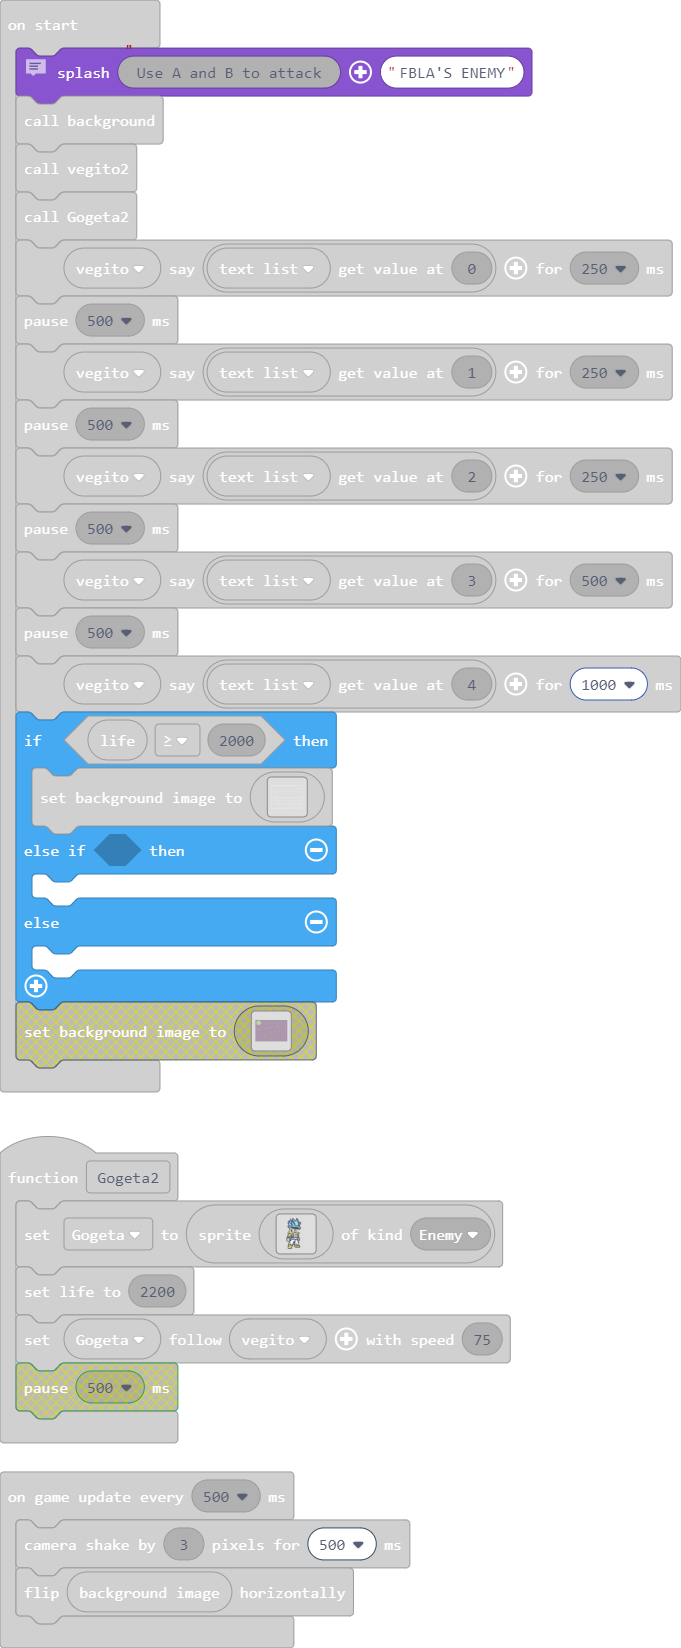
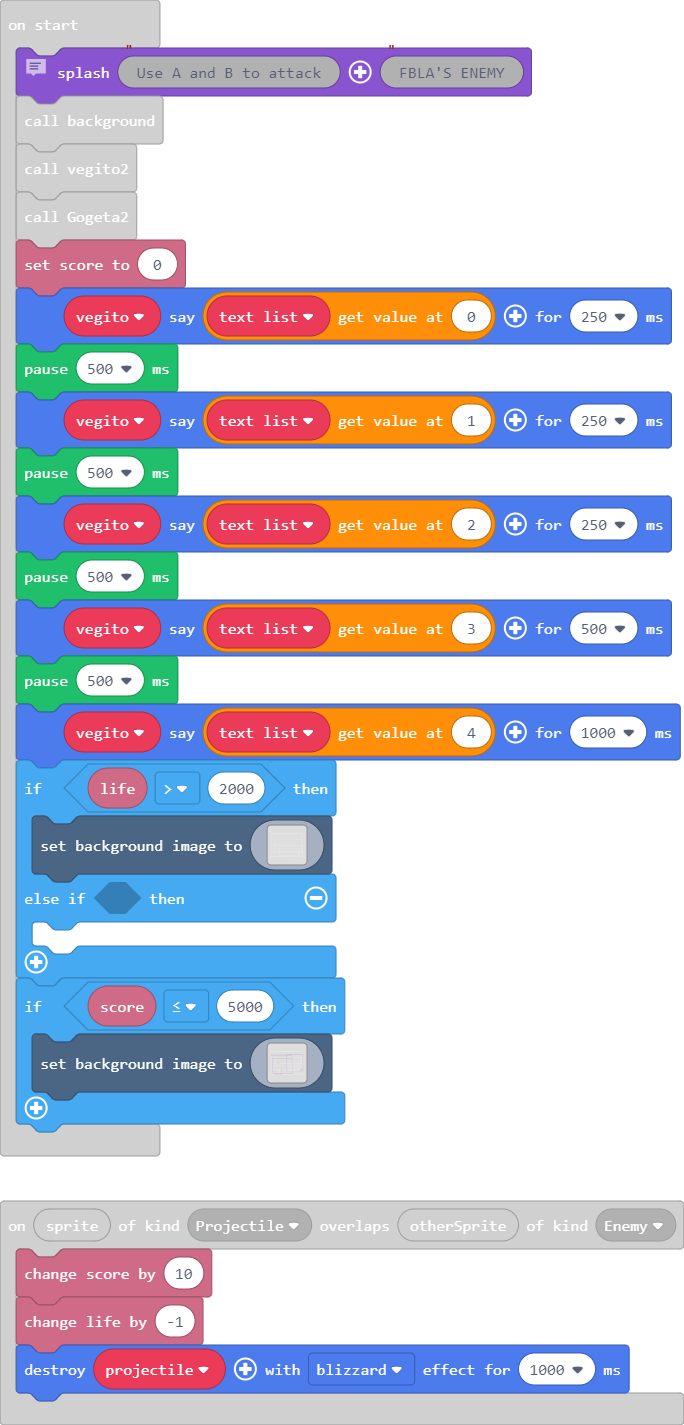
Update main.blocks, main.ts

diff --git a/main.ts b/main.ts
@@ -326,6 +326,7 @@ function spirit_bomb () {
     projectile3.follow(Gogeta, 100)
 }
 sprites.onOverlap(SpriteKind.Projectile, SpriteKind.Enemy, function (sprite, otherSprite) {
+    info.changeScoreBy(10)
     info.changeLifeBy(-1)
     projectile.destroy(effects.blizzard, 1000)
 })
@@ -345,6 +346,7 @@ game.splash("Use A and B to attack", "FBLA'S ENEMY")
 background()
 vegito2()
 Gogeta2()
+info.setScore(0)
 vegito.say(text_list[0], 250)
 pause(500)
 vegito.say(text_list[1], 250)
@@ -354,7 +356,7 @@ pause(500)
 vegito.say(text_list[3], 500)
 pause(500)
 vegito.say(text_list[4], 1000)
-if (info.life() >= 2000) {
+if (info.life() > 2000) {
     scene.setBackgroundImage(img`
 1 1 1 1 1 1 1 1 1 1 1 1 1 1 1 1 1 1 1 1 1 1 1 1 1 1 1 1 1 1 1 1 1 1 1 1 1 1 1 1 1 1 1 1 1 1 1 1 1 1 1 1 1 1 1 1 1 1 1 1 1 1 1 1 1 1 1 1 1 1 1 1 1 1 1 1 1 1 1 1 1 1 1 1 1 1 1 1 1 1 1 1 1 1 1 1 1 1 1 1 1 1 1 1 1 1 1 1 1 1 1 1 1 1 1 1 1 1 1 1 1 1 1 1 1 1 1 1 1 1 1 1 1 1 1 1 1 1 1 1 1 1 1 1 1 1 1 1 1 1 1 1 1 1 1 1 . . . . 
 1 . . . . . . . . . . . . . . . . . . . . . . . . . . . . . . . . . . . . . . . . . . . . . . . . . . . . . . . . . . . . . . . . . . . . . . . . . . . . . . . . . . . . . . . . . . . . . . . . . . . . . . . . . . . . . . . . . . . . . . . . . . . . . . . . . . . . . . . . . . . . . . . . . . . . . . . . . . 1 . . . . 
@@ -479,8 +481,130 @@ if (info.life() >= 2000) {
 `)
 } else if (false) {
 	
-} else {
-	
+}
+if (info.score() <= 5000) {
+    scene.setBackgroundImage(img`
+1 1 1 1 1 1 1 1 1 1 1 1 1 1 1 1 1 1 1 1 1 1 1 1 1 1 1 1 1 1 1 1 1 1 1 1 1 1 1 1 1 1 1 1 1 1 1 1 1 1 1 1 1 1 1 1 1 1 1 1 1 1 1 1 1 1 1 1 1 1 1 1 1 1 1 1 1 1 1 1 1 1 1 1 1 1 1 1 1 1 1 1 1 1 1 1 1 1 1 1 1 1 1 1 1 1 1 1 1 1 1 1 1 1 1 1 1 1 1 1 1 1 1 1 1 1 1 1 1 1 1 1 1 1 1 1 1 1 1 1 1 1 1 1 1 1 1 1 1 1 1 1 1 1 1 1 . . . . 
+1 . . . . . . . . . . . . . . . . . . . . . . . . . . . . . . . . . . . . . . . . . . . . . . . . . . . . . . . . . . . . . . . . . . . . . . . . . . . . . . . . . . . . . . . . . . . . . . . . . . . . . . . . . . . . . . . . . . . . . . . . . . . . . . . . . . . . . . . . . . . . . . . . . . . . . . . . . . 1 . . . . 
+1 1 1 1 1 1 1 1 1 1 1 1 1 1 1 1 1 1 1 1 1 1 1 1 1 1 1 1 1 1 1 1 1 1 1 1 1 1 1 1 1 1 1 1 1 1 1 1 1 1 1 1 1 1 1 1 1 1 1 1 1 1 1 1 1 1 1 1 1 1 1 1 1 1 1 1 1 1 1 1 1 1 1 1 1 1 1 1 1 1 1 1 1 1 1 1 1 1 1 1 1 1 1 1 1 1 1 1 1 1 1 1 1 1 1 . . . . . . . . . . . . . . . . . . . . . . . . . . . . . . . . . . . . . . . . 1 . . . . 
+1 1 . . . . . . . . . . . . . . . . . . . . . . 1 1 1 1 1 1 1 1 1 1 1 1 1 1 1 1 1 1 1 1 1 1 1 1 1 1 1 1 1 1 1 1 1 1 1 1 1 1 1 1 1 1 1 1 1 1 1 1 1 1 1 1 1 1 1 1 1 1 1 1 1 1 1 1 1 1 1 1 1 1 1 1 1 1 1 1 1 1 1 1 1 1 1 1 1 1 1 1 1 1 1 1 1 1 1 1 1 1 1 1 1 1 1 1 1 1 1 1 1 1 1 1 1 1 1 1 1 1 1 1 1 1 1 1 1 1 1 1 1 . . 1 . . . . 
+1 1 . . . . . . . . . . . . . . . . . . . . . . 1 . . . . . . . . . . . . . . . . . . . . . . . . . . . . . . . . . . . . . . . . . . . . . . . . . . . . . . . . . . . . . . . . . . . . . . . . . . . . . . . . . . . . . . . . . 1 . . . . . . . . . . . . . . . . . . . . . . . . . . . . . . . . . . . . . 1 . . 1 . . . . 
+1 1 . . . . . . . . . . . . . . . . . . . . . . 1 . . . . . . . . . . . . . . . . . . . . . . . . . . . . . . . . . . . . . . . . . . . . . . . . . . . . . . . . . . . . . . . . . . . . . . . . . . . . . . . . . . . . . . . . . 1 . . . . . . . . . . . . . . . . . . . . . . . . . . . . . . . . . . . . . 1 . . 1 . . . . 
+1 1 . . . . . . . . . . . . . . . . . . . . . . 1 . . . . . . . . . . . . . . . . . . . . . . . . . . . . . . . . . . . . . . . . . . . . . . . . . . . . . . . . . . . . . . . . . . . . . . . . . . . . . . . . . . . . . . . . . 1 . . . . . . . . . . . . . . . . . . . . . . . . . . . . . . . . . . . . . 1 . . 1 . . . . 
+1 1 . . . . . . . . . . . . . . . . . . . . . . 1 . . . . . . . . . . . . . . . . . . . . . . . . . . . . . . . . . . . . . . . . . . . . . . . . . . . . . . . . . . . . . . . . . . . . . . . . . . . . . . . . . . . . . . . . . 1 . . . . . . . . . . . . . . . . . . . . . . . . . . . . . . . . . . . . . 1 . . 1 . . . . 
+1 1 . . . . . . . . . . . . . . . . . . . . . . 1 . . . . . . . . . . . . . . . . . . . . . . . . . . . . . . . . . . . . . . . . . . . . . . . . . . . . . . . . . . . . . . . . . . . . . . . . . . . . . . . . . . . . . . . . . 1 . . . . . . . . . . . . . . . . . . . . . . . . . . . . . . . . . . . . . 1 . . 1 . . . . 
+1 1 . . . . . . . . . . . . . . . . . . . . . . 1 . . . . . . . . . . . . . . . . . . . . . . . . . . . . . . . . . . . . . . . . . . . . . . . . . . . . . . . . . . . . . . . . . . . . . . . . . . . . . . . . . . . . . . . . . 1 . . . . . . . . . . . . . . . . . . . . . . . . . . . . . . . . . . . . . 1 . . 1 . . . . 
+1 1 . . . . . . . . . . . . . . . . . . . . . . 1 . . . . . . . . . . . . . . . . . . . . . . . . . . . . . . . . . . . . . . . . . . . . . . . . . . . . . . . . . . . . . . . . . . . . . . . . . . . . . . . . . . . . . . . . . 1 . . . . . . . . . . . . . . . . . . . . . . . . . . . . . . . . . . . . . 1 . . 1 . . . . 
+1 1 . . . . . . . . . . . . . . . . . . . . . . 1 . . . . . . . . . . . . . . . . . . . . . . . . . . . . . . . . . . . . . . . . . . . . . . . . . . . . . . . . . . . . . . . . . . . . . . . . . . . . . . . . . . . . . . . . . 1 . . . . . . . . . . . . . . . . . . . . . . . . . . . . . . . . . . . . . 1 . . 1 . . . . 
+1 1 . . . . . . . . . . . . . . . . . . . . . . 1 . . . . . . . . . . . . . . . . . . . . . . . . . . . . . . . . . . . . . . . . . . . . . . . . . . . . . . . . . . . . . . . . . . . . . . . . . . . . . . . . . . . . . . . . . 1 . . . . . . . . . . . . . . . . . . . . . . . . . . . . . . . . . . . . . 1 . . 1 . . . . 
+1 1 . . . . . . . . . . . . . . . . . . . . . . 1 . . . . . . . . . . . . . . . . . . . . . . . . . . . . . . . . . . . . . . . . . . . . . . . . . . . . . . . . . . . . . . . . . . . . . . . . . . . . . . . . . . . . . . . . . 1 . . . . . . . . . . . . . . . . . . . . . . . . . . . . . . . . . . . . . 1 . . 1 . . . . 
+1 1 . . . . . . . . . . . . . . . . . . . . . . 1 . . . . . . . . . . . . . . . . . . . . . . . . . . . . . . . . . . . . . . . . . . . . . . . . . . . . . . . . . . . . . . . . . . . . . . . . . . . . . . . . . . . . . . . . . 1 . . . . . . . . . . . . . . . . . . . . . . . . . . . . . . . . . . . . . 1 . . 1 . . . . 
+1 a a a a a a a a a a a a a a a a a a a a a a a a a a a a a a a a a a a a a a a a a a a a a a a a a a a a a a a a a a a a a a a a a a a a a a a a a a a a a a a a a a a a a a a a a a a a a a a a a a a a a . . . . . . . . . . . . 1 . . . . . . . . . . . . . . . . . . . . . . . . . . . . . . . . . . . . . 1 . . 1 . . . . 
+1 a . . . . . . . . . . . . . . . . . . . . . . 1 . . . . . . . . . . . . . . . . . . . . . . . . . . . . . . . . . . . . . . . . . . . . . . . . . . . . . . . . . . . . . . . . . . . . . . . . . . . . a . . . . . . . . . . . . 1 . . . . . . . . . . . . . . . . . . . . . . . . . . . . . . . . . . . . . 1 . . 1 . . . . 
+1 a . . . . . . . . . . . . . . . . . . . . . . 1 . . . . . . . . . . . . . . . . . . . . . . . . . . . . . . . . . . . . . . . . . . . . . . . . . . . a a a a a a a a a a a a a a a a a a a a a a a a a a a a a a a a a a a a a a a a a a a a a a a a a a a a a a a a a a a a a a a a a a a a a a a a a a a a a a a a a a a a 
+1 a . . . . . . . . . . . . . . . . . . . . . . 1 . . . . . . . . . . . . . . . . . . . . . . . . . . . . . . . . . . . . . . . . . . . . . . . . . . . a . . . . . . . . . . . . . . . . . . . . . . . . a . . . . . . . . . . . . 1 . . . . . . . . . . . . . . . . . . . . . . . . . . . . . . . . . . . . . 1 . . 1 . . . a 
+1 a . . . . . . . . . . . . . . . . . . . . . . 1 . . . . . . . . . . . . . . . . . . . . . . . . . . . . . . . . . . . . . . . . . . . . . . . . . . . a . . . . . . . . . . . . . . . . . . . . . . . . a . . . . . . . . . . . . 1 . . . . . . . . . . . . . . . . . . . . . . . . . . . . . . . . . . . . . 1 . . 1 . . . a 
+1 a . . . . . . . . . . . . . . . . . . . . . . 1 . . . . . . . . . . . . . . . . . . . . . . . . . . . . . . . . . . . . . . . . . . . . . . . . . . . a . . . . . . . . . . . . . . . . . . . . . . . . a . . . . . . . . . . . . 1 . . . . . . . . . . . . . . . . . . . . . . . . . . . . . . . . . . . . . 1 . . 1 . . . a 
+1 a . . . . . . . . . . . . . . . . . . . . . . 1 . . . . . . . . . . . . . . . . . . . . . . . . . . . . . . . . . . . . . . . . . . . . . . . . . . . a . . . . . . . . . . . . . . . . . . . . . . . . a . . . . . . . . . . . . 1 . . . . . . . . . . . . . . . . . . . . . . . . . . . . . . . . . . . . . 1 . . 1 . . . a 
+1 a a a a a a a a a a a a a a a a a a a a a a a a a a a a a a a a a a a a a a a a a a a a a a a a a a a a a a a a a a a a a a a a a a a a a a a a a a a a a a a a a a a a a a a a a a a a a a a a a a a a a . . . . . . . . . . . . 1 . . . . . . . . . . . . . . . . . . . . . . . . . . . . . . . . . . . . . 1 . . 1 . . . a 
+1 1 . . . . . . . . . . . . . . . . . . . . . . 1 . . . . . . . . . . . . . . . . . . . . . . . . . . . . . . . . . . . . . . . . . . . . . . . . . . . a . . . . . . . . . . . . . . . . . . . . . . . . . . . . . . . . . . . . . 1 . . . . . . . . . . . . . . . . . . . . . . . . . . . . . . . . . . . . . 1 . . 1 . . . a 
+1 1 . . . . . . . . . . . . . . . . . . . . . . 1 . . . . . . . . . . . . . . . . . . . . . . . . . . . . . . . . . . . . . . . . . . . . . . . . . . . a . . . . . . . . . . . . . . . . . . . . . . . . . . . . . . . . . . . . . 1 . . . . . . . . . . . . . . . . . . . . . . . . . . . . . . . . . . . . . 1 . . 1 . . . a 
+1 1 . . . . . . . . . . . . . . . . . . . . . . 1 . . . . . . . . . . . . . . . . . . . . . . . . . . . . . . . . . . . . . . . . . . . . . . . . . . . a . . . . . . . . . . . . . . . . . . . . . . . . . . . . . . . . . . . . . 1 . . . . . . . . . . . . . . . . . . . . . . . . . . . . . . . . . . . . . 1 . . 1 . . . a 
+1 1 . . . . . . . . . . . . . . . . . . . . . . 1 . . . . . . . . . . . . . . . . . . . . . . . . . . . . . . . . . . . . . . . . . . . . . . . . . . . a . . . . . . . . . . . . . . . . . . . . . . . . . . . . . . . . . . . . . 1 . . . . . . . . . . . . . . . . . . . . . . . . . . . . . . . . . . . . . 1 . . 1 . . . a 
+1 1 . . . . . . . . . . . . . . . . . . . . . . 1 . . . . . . . . . . . . . . . . . . . . . . . . . . . . . . . . . . . . . . . . . . . . . . . . . . . a . . . . . . . . . . . . . . . . . . . . . . . . . . . . . . . . . . . . . 1 . . . . . . . . . . . . . . . . . . . . . . . . . . . . . . . . . . . . . 1 . . 1 . . . a 
+1 1 . . . . . . . . . . . . . . . . . . . . . . 1 . . . . . . . . . . . . . . . . . . . . . . . . . . . . . . . . . . . . . . . . . . . . . . . . . . . a . . . . . . . . . . . . . . . . . . . . . . . . . . . . . . . . . . . . . 1 . . . . . . . . . . . . . . . . . . . . . . . . . . . . . . . . . . . . . 1 . . 1 . . . a 
+1 1 . . . . . . . . . . . . . . . . . . . . . . 1 . . . . . . . . . . . . . . . . . . . . . . . . . . . . . . . . . . . . . . . . . . . . . . . . . . . a . . . . . . . . . . . . . . . . . . . . . . . . . . . . . . . . . . . . . 1 . . . . . . . . . . . . . . . . . . . . . . . . . . . . . . . . . . . . . 1 . . 1 . . . a 
+1 1 . . . . . . . . . . . . . . . 1 1 1 1 1 1 1 1 1 1 1 1 1 1 1 1 1 1 1 1 1 1 1 1 1 1 1 1 1 1 1 1 1 1 1 1 1 1 1 1 1 1 1 1 1 1 1 1 1 1 1 1 1 1 1 1 1 1 1 a 1 1 1 1 1 1 1 1 1 1 1 1 1 1 1 1 1 1 1 1 1 1 1 1 1 1 1 1 1 1 1 1 1 1 1 1 1 1 1 1 1 1 1 1 1 1 1 1 1 1 1 1 1 1 1 1 1 1 1 1 1 1 1 1 1 1 1 1 1 1 1 1 1 1 1 1 . . 1 . . . a 
+1 1 . . . . . . . . . . . . . . . 1 . . . . . . 1 . . . . . . . . . . . . . . . . . . . . . . . . . . . . . . . . . . . . . . . . . . . . . . . . . . . a . . . . . . . . . . . . . . . . . . . . . . . . . . . . . . . . . . . . . 1 . . . . . . . . . . . . . . . . . . . . . . . . . . . . . . . . . . . . . 1 . . 1 . . . a 
+1 1 . . . . . . . . . . . . . . . 1 . . . . . . 1 . . . . . . . . . . . . . . . . . . . . . . . . . . . . . . . . . . . . . . . . . . . . . . . . . . . a . . . . . . . . . . . . . . . . . . . . . . . . . . . . . . . . . . . . . 1 . . . . . . . . . . . . . . . . . . . . . . . . . . . . . . . . . . . . . 1 . . 1 . . . a 
+1 1 . . . . . . . . . . . . . . . 1 . . . . . . 1 . . . . . . . . . . . . . . . . . . . . . . . . . . . . . . . . . . . . . . . . . . . . . . . . . . . a . . . . . . . . . . . . . . . . . . . . . . . . . . . . . . . . . . . . . 1 . . . . . . . . . . . . . . . . . . . . . . . . . . . . . . . . . . . . . 1 . . 1 . . . a 
+1 1 . . . . . . . . . . . . . . . 1 . . . . . . 1 . . . . . . . . . . . . . . . . . . . . . . . . . . . . . . . . . . . . . . . . . . . . . . . . . . . a . . . . . . . . . . . . . . . . . . . . . . . . . . . . . . . . . . . . . 1 . . . . . . . . . . . . . . . . . . . . . . . . . . . . . . . . . . . . . 1 . . 1 . . . a 
+1 1 . . . . . . . . . . . . . . . 1 . . . . . . 1 . . . . . . . . . . . . . . . . . . . . . . . . . . . . . . . . . . . . . . . . . . . . . . . . . . . a . . . . . . . . . . . . . . . . . . . . . . . . . . . . . . . . . . . . . 1 . . . . . . . . . . . . . . . . . . . . . . . . . . . . . . . . . . . . . 1 . . 1 . . . a 
+1 1 . . . . . . . . . . . . . . . 1 . . . . . . 1 . . . . . . . . . . . . . . . . . . . . . . . . . . . . . . . . . . . . . . . . . . . . . . . . . . . a . . . . . . . . . . . . . . . . . . . . . . . . . . . . . . . . . . . . . 1 . . . . . . . . . . . . . . . . . . . . . . . . . . . . . . . . . . . . . 1 . . 1 . . . a 
+1 1 . . . . . . . . . . . . . . . 1 . . . . . . 1 . . . . . . . . . . . . . . . . . . . . . . . . . . . . . . . . . . . . . . . . . . . . . . . . . . . a . . . . . . . . . . . . . . . . . . . . . . . . . . . . . . . . . . . . . 1 . . . . . . . . . . . . . . . . . . . . . . . . . . . . . . . . . . . . . 1 . . 1 . . . a 
+1 1 . . . . a a a a a a a a a a a a a a a a a a a a a a a a a a a a a a a a a a a a a a a a a a a a a a a a a a a a a a a a a a a a a a a a a a a a a a a a a a a a a a a a a a a a a a a a a a a a a a a a a a a a a a a a . . . . 1 . . . . . . . . . . . . . . . . . . . . . . . . . . . . . . . . . . . . . 1 . . 1 . . . a 
+1 1 . . . . a . . . . . . . . . . 1 . . . . . . 1 . . . . . . . . . . . . . . . . . . . . . . . . . . . . . . . . . . . . . . . . . . . . . . . . . . . a . . . . . . . . . . . . . . . . . . . . . . . . . . . . . . . . a . . . . 1 . . . . . . . . . . . . . . . . . . . . . . . . . . . . . . . . . . . . . 1 . . 1 . . . a 
+1 1 . . . . a . . . . . . . . . . 1 . . . . . . 1 . . . . . . . . . . . . . . . . . . . . . . . . . . . . . . . . . . . . . . . . . . . . . . . . . . . a . . . . . . . . . . . . . . . . . . . . . . . . . . . . . . . . a . . . . 1 . . . . . . . . . . . . . . . . . . . . . . . . . . . . . . . . . . . . . 1 . . 1 . . . a 
+1 1 . . . . a . . . . . . . . . . 1 . . . . . . 1 . . . . . . . . . . . . . . . . . . . . . . . . . . . . . . . . . . . . . . . . . . . . . . . . . . . a . . . . . . . . . . . . . . . . . . . . . . . . . . . . . . . . a . . . . 1 . . . . . . . . . . . . . . . . . . . . . . . . . . . . . . . . . . . . . 1 . . 1 . . . a 
+1 1 . . . . a . . . . . . . . . . 1 . . . . . . 1 . . . . . . . . . . . . . . . . . . . . . . . . . . . . . . . . . . . . . . . . . . . . . . . . . . . a . . . . . . . . . . . . . . . . . . . . . . . . . . . . . . . . a . . . . 1 . . . . . . . . . . . . . . . . . . . . . . . . . . . . . . . . . . . . . 1 . . 1 . . . a 
+1 1 . . . . a . . . . . . . . . . 1 . . . . . . 1 . . . . . . . . . . . . . . . . . . . . . . . . . . . . . . . . . . . . . . . . . . . . . . . . . . . a . . . . . . . . . . . . . . . . . . . . . . . . . . . . . . . . a . . . . 1 . . . . . . . . . . . . . . . . . . . . . . . . . . . . . . . . . . . . . 1 . . 1 . . . a 
+1 1 . . . . a . . . . . . . . . . 1 . . . . . . 1 . . . . . . . . . . . . . . . . . . . . . . . . . . . . . . . . . . . . . . . . . . . . . . . . . . . a . . . . . . . . . . . . . . . . . . . . . . . . . . . . . . . . a . . . . 1 . . . . . . . . . . . . . . . . . . . . . . . . . . . . . . . . . . . . . 1 . . 1 . . . a 
+1 1 . . . . a . . . . . . . . . . 1 . . . . . . 1 . . . . . . . . . . . . . . . . . . . . . . . . . . . . . . . . . . . . . . . . . . . . . . . . . . . a . . . . . . . . . . . . . . . . . . . . . . . . . . . . . . . . a . . . . 1 . . . . . . . . . . . . . . . . . . . . . . . . . . . . . . . . . . . . . 1 . . 1 . . . a 
+1 1 . . . . a . . . . . . . . . . 1 . . . . . . 1 . . . . . . . . . . . . . . . . . . . . . . . . . . . . . . . . . . . . . . . . . . . . . . . . . . . a . . . . . . . . . . . . . . . . . . . . . . . . . . . . . . . . a . . . . 1 . . . . . . . . . . . . . . . . . . . . . . . . . . . . . . . . . . . . . 1 . . 1 . . . a 
+1 1 . . . . a . . . . . . . . . . 1 . . . . . . 1 . . . . . . . . . . . . . . . . . . . . . . . . . . . . . . . . . . . . . . . . . . . . . . . . . . . a . . . . . . . . . . . . . . . . . . . . . . . . . . . . . . . . a . . . . 1 . . . . . . . . . . . . . . . . . . . . . . . . . . . . . . . . . . . . . 1 . . 1 . . . a 
+1 1 . . . . a . . . . . . . . . . 1 . . . . . . 1 . . . . . . . . . . . . . . . . . . . . . . . . . . . . . . . . . . . . . . . . . . . . . . . . . . . a . . . . . . . . . . . . . . . . . . . . . . . . . . . . . . . . a . . . . 1 . . . . . . . . . . . . . . . . . . . . . . . . . . . . . . . . . . . . . 1 . . 1 . . . a 
+1 1 . . . . a . . . . . . . . . . 1 . . . . . . 1 . . . . . . . . . . . . . . . . . . . . . . . . . . . . . . . . . . . . . . . . . . . . . . . . . . . a . . . . . . . . . . . . . . . . . . . . . . . . . . . . . . . . a . . . . 1 . . . . . . . . . . . . . . . . . . . . . . . . . . . . . . . . . . . . . 1 . . 1 . . . a 
+1 1 . . . . a . . . . . . . . . . 1 . . . . . . 1 . . . . . . . . . . . . . . . . . . . . . . . . . . . . . . . . . . . . . . . . . . . . . . . . . . . a . . . . . . . . . . . . . . . . . . . . . . . . . . . . . . . . a . . . . 1 . . . . . . . . . . . . . . . . . . . . . . . . . . . . . . . . . . . . . 1 . . 1 . . . a 
+1 1 . . . . a . . . . . . . . . . 1 . . . . . . 1 . . . . . . . . . . . . . . . . . . . . . . . . . . . . . . . . . . . . . . . . . . . . . . . . . . . a . . . . . . . . . . . . . . . . . . . . . . . . . . . . . . . . a . . . . 1 . . . . . . . . . . . . . . . . . . . . . . . . . . . . . . . . . . . . . 1 . . 1 . . . a 
+1 1 . . . . a . . . . . . . . . . 1 . . . . . . 1 . . . . . . . . . . . . . . . . . . . . . . . . . . . . . . . . . . . . . . . . . . . . . . . . . . . a . . . . . . . . . . . . . . . . . . . . . . . . . . . . . . . . a . . . . 1 . . . . . . . . . . . . . . . . . . . . . . . . . . . . . . . . . . . . . 1 . . 1 . . . a 
+1 1 . . . . a . . . . . . . . . . 1 . . . . . . 1 . . . . . . . . . . . . . . . . . . . . . . . . . . . . . . . . . . . . . . . . . . . . . . . . . . . a . . . . . . . . . . . . . . . . . . . . . . . . . . . . . . . . a . . . . 1 . . . . . . . . . . . . . . . . . . . . . . . . . . . . . . . . . . . . . 1 . . 1 . . . a 
+1 1 . . . . a . . . . . . . . . . 1 . . . . . . 1 . . . . . . . . . . . . . . . . . . . . . . . . . . . . . . . . . . . . . . . . . . . . . . . . . . . a . . . . . . . . . . . . . . . . . . . . . . . . . . . . . . . . a . . . . 1 . . . . . . . . . . . . . . . . . . . . . . . . . . . . . . . . . . . . . 1 . . 1 . . . a 
+1 1 . . . . a . . . . . . . . . . 1 . . . . . . 1 . . . . . . . . . . . . . . . . . . . . . . . . . . . . . . . . . . . . . . . . . . . . . . . . . . . a . . . . . . . . . . . . . . . . . . . . . . . . . . . . . . . . a . . . . 1 . . . . . . . . . . . . . . . . . . . . . . . . . . . . . . . . . . . . . 1 . . 1 . . . a 
+1 1 . . . . a . . . . . . . . . . 1 . . . . . . 1 . . . . . . . . . . . . . . . . . . . . . . . . . . . . . . . . . . . . . . . . . . . . . . . . . . . a . . . . . . . . . . . . . . . . . . . . . . . . . . . . . . . . a . . . . 1 . . . . . . . . . . . . . . . . . . . . . . . . . . . . . . . . . . . . . 1 . . 1 . . . a 
+1 1 . . . . a . . . . . . . . . . 1 . . . . . . 1 . . . . 1 1 1 1 1 . a a a a a . . . . . . . . . . . . . . . . . . . . . . . . . . . . . . . . . . . . a . . . . . . . . . . . . . . . . . . . . . . . . . . . . . . . . a . . . . 1 . . . . . . . . . . . . . . . . . . . . . . . . . . . . . . . . . . . . . 1 . . 1 . . . a 
+1 1 . . . . a . . . . . . . . . . 1 . . . . . . 1 . . . . 1 . . . 1 . a . . . a . . . . . . . . . . . . . . . . . . . . . . . . . . . . . . . . . . . . a . . . . . . . . . . . . . . . . . . . . . . . . . . . . . . . . a . . . . 1 . . . . . . . . . . . . . . . . . . . . . . . . . . . . . . . . . . . . . 1 . . 1 . . . a 
+1 1 . . . . a . . . . . . . . . . 1 . . . . . . 1 . . . . 1 . . . 1 . a . . . a . . . . . . . . . . . . . . . . . . . . . . . . . . . . . . . . . . . . a . . . . . . . . . . . . . . . . . . . . . . . . . . . . . . . . a . . . . 1 . . . . . . . . . . . . . . . . . . . . . . . . . . . . . . . . . . . . . 1 . . 1 . . . a 
+1 1 . . . . a . . . . . . . . . . 1 . . . . . . 1 . . . . 1 . . . 1 . a . . . a . . . . . . . . . . . . . . . . . . . . . . . . . . . . . . . . . . . . a . . . . . . . . . . . . . . . . . . . . . . . . . . . . . . . . a . . . . 1 . . . . . . . . . . . . . . . . . . . . . . . . . . . . . . . . . . . . . 1 . . 1 . . . a 
+1 1 . . . . a . . . . . . . . . . 1 . . . . . . 1 . . . . 1 . . . 1 . a . . . a . . 1 1 1 1 1 1 1 1 1 1 1 1 1 1 1 1 1 1 1 1 1 1 1 1 1 1 1 1 1 1 1 1 1 1 a 1 1 1 1 1 1 1 1 1 1 1 1 1 1 1 1 1 1 1 1 1 1 1 1 1 1 1 1 1 1 1 1 a 1 1 1 1 1 1 1 1 1 1 1 1 1 1 1 1 1 1 1 1 1 1 1 1 1 1 1 . . . . . . . . . . . . . . . 1 . . 1 . . . a 
+1 1 . . . . a . . . . . . . . . . 1 . . . . . . 1 . . . . 1 1 1 1 1 . a a a a a . . 1 . . . . . . . . . . . . . . . . . . . . . . . . . . . . . . . . . a . . . . . . . . . . . . . . . . . . . . . . . . . . . . . . . . a . . . . 1 . . . . . . . . . . . . . . . . . . . . . 1 . . . . . . . . . . . . . . . 1 . . 1 . . . a 
+1 1 1 1 1 1 a 1 1 1 1 1 1 1 1 1 1 1 1 1 1 1 1 1 1 1 1 1 1 1 1 1 1 1 1 1 1 1 1 1 1 1 1 1 1 1 1 1 1 1 1 1 1 1 1 1 1 1 1 1 1 1 1 1 1 1 1 1 1 1 1 1 1 1 1 1 a 1 1 1 1 1 1 1 1 1 1 1 1 1 1 1 1 1 1 1 1 1 1 1 1 1 1 1 1 1 1 1 1 a 1 1 1 1 1 1 1 1 1 1 1 1 1 1 1 1 1 1 1 1 1 1 1 1 1 1 1 1 1 1 1 1 1 1 1 1 1 1 1 1 1 1 1 1 1 1 1 1 1 a 
+1 1 . . . . a . . . . . . . . . . 1 . . . . . . 1 . . . . . . . . . . . . . . . . . 1 . . . . . . . . . . . . . . . . . . . . . . . . . . . . . . . . . a . . . . . . . . . . . . . . . . . . . . . . . . . . . . . . . . a . . . . 1 . . . . . . . . . . . . . . . . . . . . . 1 . . . . . . . . . . . . . . . 1 . . 1 . . . a 
+1 1 . . . . a . . . . . . . . . . 1 . . . . . . 1 . . . . . . . . . . . . . . . . . 1 . . . . . . . . . . . . . . . . . . . . . . . . . . . . . . . . . a . . . . . . . . . . . . . . . . . . . . . . . . . . . . . . . . a . . . . 1 . . . . . . . . . . . . . . . . . . . . . 1 . . . . . . . . . . . . . . . 1 . . 1 . . . a 
+1 1 . . . . a . . . . . . . . . . 1 . . . . . . 1 . . . . . . . . . . . . . . . . . 1 . . . . . . . . . . . . . . . . . . . . . . . . . . . . . . . . . a . . . . . . . . . . . . . . . . . . . . . . . . . . . . . . . . a . . . . 1 . . . . . . . . . . . . . . . . . . . . . 1 . . . . . . . . . . . . . . . 1 . . 1 . . . a 
+1 1 . . . . a . . . . . . . . . . 1 . . . . . . 1 . . . . . . . . . . . . . . . . . 1 . . . . . . . . . . . . . . . . . . . . . . . . . . . . . . . . . a . . . . . . . . . . . . . . . . . . . . . . . . . . . . . . . . a . . . . 1 . . . . . . . . . . . . . . . . . . . . . 1 . . . . . . . . . . . . . . . 1 . . 1 . . . a 
+1 1 . . . . a . . . . . . . . . . 1 . . . . . . 1 . . . . . . . . . . . . . . . . . 1 . . . . . . . . . . . . . . . . . . . . . . . . . . . . . . . . . a . . . . . . . . . . . . . . . . . . . . . . . . . . . . . . . . a . . . . 1 . . . . . . . . . . . . . . . . . . . . . 1 . . . . . . . . . . . . . . . 1 . . 1 . . . a 
+1 1 . . . . a . . . . . . . . . . 1 . . . . . . 1 . . . . . . . . . . . . . . . . . 1 . . . . . . . . . . . . . . . . . . . . . . . . . . . . . . . . . a . . . . . . . . . . . . . . . . . . . . . . . . . . . . . . . . a . . . . 1 . . . . . . . . . . . . . . . . . . . . . 1 . . . . . . . . . . . . . . . 1 . . 1 . . . a 
+1 1 . . . . a . . . . . . . . . . 1 . . . . . . 1 . . . . . . . . . . . . . . . . . 1 . . . . . . . . . . . . . . . . . . . . . . . . . . . . . . . . . a . . . . . . . . . . . . . . . . . . . . . . . . . . . . . . . . a . . . . 1 . . . . . . . . . . . . . . . . . . . . . 1 . . . . . . . . . . . . . . . 1 . . 1 . . . a 
+1 1 . . . . a . . . . . . . . . . 1 . . . . . . 1 . . . . . . . . . . . . . . . . . 1 . . . . . . . . . . . . . . . . . . . . . . . . . . . . . . . . . a . . . . . . . . . . . . . . . . . . . . . . . . . . . . . . . . a . . . . 1 . . . . . . . . . . . . . . . . . . . . . 1 . . . . . . . . . . . . . . . 1 . . 1 . . . a 
+1 1 . . . . a . . . . . . . . . . 1 . . . . . . 1 . . . . . . . . . . . . . . . . . 1 . . . . . . . . . . . . . . . . . . . . . . . . . . . . . . . . . a . . . . . . . . . . . . . . . . . . . . . . . . . . . . . . . . a . . . . 1 . . . . . . . . . . . . . . . . . . . . . 1 . . . . . . . . . . . . . . . 1 . . 1 . . . a 
+1 1 . . . . a . . . . . . . . . . 1 . . . . . . 1 . . . . . . . . . . . . . . . . . 1 . . . . . . . . . . . . . . . . . . . . . . . . . . . . . . . . . a . . . . . . . . . . . . . . . . . . . . . . . . . . . . . . . . a . . . . 1 . . . . . . . . . . . . . . . . . . . . . 1 . . . . . . . . . . . . . . . 1 . . 1 . . . a 
+1 1 . . . . a . . . . . . . . . . 1 . . . . . . 1 . . . . . . . . . . . . . . . . . 1 . . . . . . . . . . . . . . . . . . . . . . . . . . . . . . . . . a . . . . . . . . . . . . . . . . . . . . . . . . . . . . . . . . a . . . . 1 . . . . . . . . . . . . . . . . . . . . . 1 . . . . . . . . . . . . . . . 1 . . 1 . . . a 
+1 1 . . . . a . . . . . . . . . . 1 . . . . . . 1 . . . . . . . . . . . . . . . . . 1 . . . . . . . . . . . . . . . . . . . . . . . . . . . . . . . . . a . . . . . . . . . . . . . . . . . . . . . . . . . . . . . . . . a . . . . 1 . . . . . . . . . . . . . . . . . . . . . 1 . . . . . . . . . . . . . . . 1 . . 1 . . . a 
+1 1 . . . . a . . . . . . . . . . 1 . . . . . . 1 . . . . . . . . . . . . . . . . . 1 . . . . . . . . . . . . . . . . . . . . . . . . . . . . . . . . . a . . . . . . . . . . . . . . . . . . . . . . . . . . . . . . . . a . . . . 1 . . . . . . . . . . . . . . . . . . . . . 1 . . . . . . . . . . . . . . . 1 . . 1 . . . a 
+1 1 . . . . a . . . . . . . . . . 1 . . . . . . 1 . . . . . . . . . . . . . . . . . 1 . . . . . . . . . . . . . . . . . . . . . . . . . . . . . . . . . a . . . . . . . . . . . . . . . . . . . . . . . . . . . . . . . . a . . . . 1 . . . . . . . . . . . . . . . . . . . . . 1 . . . . . . . . . . . . . . . 1 . . 1 . . . a 
+1 1 1 1 1 1 a 1 1 1 1 1 1 1 1 1 1 1 1 1 1 1 1 1 1 1 1 1 1 1 1 1 1 1 1 1 1 1 1 1 1 1 1 1 1 1 1 1 1 1 1 1 1 1 1 1 1 1 1 1 1 1 1 1 1 1 1 1 1 1 1 1 1 1 1 1 a 1 1 1 1 1 1 1 1 1 1 1 1 1 1 1 1 1 1 1 1 1 1 1 1 1 1 1 1 1 1 1 1 a 1 1 1 1 1 1 1 1 1 1 1 1 1 1 1 1 1 1 1 1 1 1 1 1 1 1 1 1 1 1 1 1 1 1 1 1 1 1 1 1 1 1 1 1 1 1 1 1 1 a 
+1 1 . . . . a . . . . . . . . . . 1 . . . . . . . 1 . . . . . . . . . . . . . . . . 1 . . . . . . . . . . . . . . . . . . . . . . . . . . . . . . . . . a . . . . . . . . . . . . . . . . . . . . . . . . . . . . . . . . a . . . . 1 . . . . . . . . . . . . . . . . . . . . . 1 . . . . . . . . . . . . . . . 1 . . . . . . a 
+1 1 . . . . a . . . . . . . . . . 1 . . . . . . . 1 . . . . . . . . . . . . . . . . 1 . . . . . . . . . . . . . . . . . . . . . . . . . . . . . . . . . a . . . . . . . . . . . . . . . . . . . . . . . . . . . . . . . . a . . . . 1 . . . . . . . . . . . . . . . . . . . . . 1 . . . . . . . . . . . . . . . 1 . . . . . . a 
+1 1 . . . . a . . . . . . . . . . 1 . . . . . . . 1 . . . . . . . . . . . . . . . . 1 . . . . . . . . . . . . . . . . . . . . . . . . . . . . . . . . . a . . . . . . . . . . . . . . . . . . . . . . . . . . . . . . . . a . . . . 1 . . . . . . . . . . . . . . . . . . . . . 1 . . . . . . . . . . . . . . . 1 . . . . . . a 
+1 1 . . . . a . . . . . . . . . . 1 . . . . . . . 1 . . . . . . . . . . . . . . . . 1 . . . . . . . . . . . . . . . . . . . . . . . . . . . . . . . . . a . . . . . . . . . . . . . . . . . . . . . . . . . . . . . . . . a . . . . 1 . . . . . . . . . . . . . . . . . . . . . 1 . . . . . . . . . . . . . . . 1 . . . . . . a 
+1 1 . . . . a . . . . . . . . . . 1 . . . . . . . 1 . . . . . . . . . . . . . . . . 1 . . . . . . . . . . . . . . . . . . . . . . . . . . . . . . . . . a . . . . . . . . . . . . . . . . . . . . . . . . . . . . . . . . a . . . . 1 . . . . . . . . . . . . . . . . . . . . . 1 . . . . . . . . . . . . . . . 1 . . . . . . a 
+1 1 . . . . a . . . . . . . . . . 1 . . a a a a a a a a a a a a a a a a a a a a a a a a a a a a a a a a a a . . . . . . . . . . . . . . . . . . . . . . a . . . . . . . . . . . . . . . . . . . . . . . . . . . . . . . . a . . . . 1 . . . . . . . . . . . . . . . . . . . . . 1 . . . . . . . . . . . . . . . 1 . . . . . . a 
+1 1 . . . . a . . . . . . . . . . 1 . . a . . . . 1 1 1 1 1 1 1 1 1 1 1 1 1 1 1 1 1 1 1 1 1 1 1 1 1 1 1 1 a 1 1 1 1 1 1 1 1 1 1 1 1 1 1 1 1 1 1 1 1 1 1 a 1 1 1 1 1 1 1 1 1 1 1 1 1 1 1 1 1 1 1 1 1 1 1 1 1 1 1 1 1 1 1 1 a 1 1 1 1 1 1 1 1 1 1 1 1 1 1 1 1 1 1 1 1 1 1 1 1 1 1 1 1 1 1 1 1 1 1 1 1 1 1 1 1 1 1 1 1 1 1 1 1 1 a 
+1 1 . . . . a . . . . . . . . . . 1 . . a . . . . . . . . . . . . . . . . . . . . . 1 . . . . . . . . . . a . . . . . . . . . . . . . . . . . . . . . . a . . . . . . . . . . . . . . . . . . . . . . . . . . . . . . . . a . . . . 1 . . . . . . . . . . . . . . . . . . . . . 1 . . . . . . . . . . . . . . . 1 . . . . . . a 
+1 1 . . . . a . . . . . . . . . . 1 . . a . . . . . . . . . . . . . . . . . . . . . 1 . . . . . . . . . . a . . . . . . . . . . . . . . . . . . . . . . a . . . . . . . . . . . . . . . . . . . . . . . . . . . . . . . . a . . . . 1 . . . . . . . . . . . . . . . . . . . . . 1 . . . . . . . . . . . . . . . 1 . . . . . . a 
+1 1 . . . . a . . . . . . . . . . 1 . . a . . . . . . . . . . . . . . . . . . . . . 1 . . . . . . . . . . a . . . . . . . . . . . . . . . . . . . . . . a . . . . . . . . . . . . . . . . . . . . . . . . . . . . . . . . a . . . . 1 . . . . . . . . . . . . . . . . . . . . . 1 . . . . . . . . . . . . . . . 1 . . . . . . a 
+1 1 . . . . a . . . . . . . . . . 1 . . a . . . . . . . . . . . . . . . . . . . . . 1 . . . . . . . . . . a . . . . . . . . . . . . . . . . . . . . . . a . . . . . . . . . . . . . . . . . . . . . . . . . . . . . . . . a . . . . 1 . . . . . . . . . . . . . . . . . . . . . 1 . . . . . . . 1 1 1 1 1 1 1 1 1 1 1 1 1 1 1 a 
+1 1 . . . . a . . . . . . . . . . 1 . . a . . . . . . . . . . . . . . . . . . . . . 1 . . . . . . . . . . a . . . . . . . . . . . . . . . . . . . . . . a . . . . . . . . . . . . . . . . . . . . . . . . . . . . . . . . a . . . . 1 . . . . . . . . . . . . . . . . . . . . . 1 . . . . . . . 1 a a a a a a a a a a . . . 1 a 
+1 1 1 1 1 1 a 1 1 1 1 1 1 1 1 1 1 1 1 1 a 1 1 1 1 1 1 1 1 1 1 1 1 1 1 1 1 1 1 1 1 1 1 1 1 1 1 1 1 1 1 1 1 a 1 1 1 1 1 1 1 1 1 1 1 1 1 1 1 1 1 1 1 1 1 1 a 1 1 1 1 1 1 1 1 1 1 1 1 1 1 1 1 1 1 1 1 1 1 1 1 1 1 1 1 1 1 1 1 a 1 1 1 1 1 1 1 1 1 1 1 1 1 1 1 1 1 1 1 1 1 1 1 1 1 1 1 1 1 1 1 1 1 1 1 a . . . . . . 1 . a . . . 1 a 
+1 1 . . . . a . . . . . . . . . . 1 . . a . . . . . . . . . . . . . . . . . . . . . 1 . . . . . . . . . . a . . . . . . . . . . . . . . . . . . . . . . a . . . . . . . . . . . . . . . . . . . . . . . . . . . . . . . . a . . . . 1 . . . . . . . . . . . . . . . . . . . . . 1 . . . . . . 1 1 a . . . . . . 1 . a . . . 1 a 
+1 1 . . . . a . . . . . . . . . . 1 . . a . . . . . . . . . . . . . . . . . . . . . 1 . . . . . . . . . . a . . . . . . . . . . . . . . . . . . . . . . a . . . . . . . . . . . . . . . . . . . . . . . . . . . . . . . . a . . . . 1 . . . . . . . . . . . . . . . . . . . . . 1 . . . . . . 1 1 a . . . . . . 1 . a . . . 1 a 
+1 1 . . . . a . . . . . . . . . . 1 . . a . . . . . . . . . . . . . . . . . . . . . 1 . . . . . . . . . . a . . . . . . . . . . . . . . . . . . . . . . a . . . . . . . . . . . . . . . . . . . . . . . . . . . . . . . . a . . . . 1 . . . . . . . . . . . . . . . . . . . . . 1 . . . . . . 1 1 a . . . . . . 1 . a . . . 1 a 
+1 1 . . . . a . . . . . . . . . . 1 . . a . . . . . . . . . . . . . . . . . . . . . 1 . . . . . . . . . . a . . . . . . . . . . . . . . . . . . . . . . a . . . . . . . . . . . . . . . . . . . . . . . . . . . . . . . . a . . . . 1 . . . . . . . . . . . . . . . . . . . . . 1 . . . . . . 1 1 a . . . . . . 1 . a . . . 1 a 
+1 1 . . . . a . . . . . . . . . . 1 . . a . . . . . . . . . . . . . . . . . . . . . 1 . . . . . . . . . . a . . . . . . . . . . . . . . . . . . . . . . a . . . . . . . . . . . . . . . . . . . . . . . . . . . . . . . . a . . . . 1 . . . . . . . . . . . . . . . . . . . . . 1 . . . . . . 1 1 a . . . . . . 1 . a . . . 1 a 
+1 1 . . . . a . . . . . . . . . . 1 1 1 a 1 1 1 1 1 1 1 1 1 1 1 1 1 1 1 1 1 1 1 1 1 1 1 1 1 1 1 1 1 1 1 1 a 1 1 1 1 1 1 1 1 1 1 1 1 1 1 1 1 1 1 1 1 1 1 a 1 1 1 1 1 1 1 1 1 1 1 1 1 1 1 1 1 1 1 1 1 1 1 1 1 1 1 1 1 1 1 1 a 1 1 1 1 1 1 1 1 1 1 1 1 1 1 1 1 1 1 1 1 1 1 1 1 1 1 1 1 1 1 1 1 1 1 1 a a a a a a a a a a . . . 1 a 
+1 1 . . . . a . . . . . . . . . . . . . a . . . . . . . . . . . . . . . . . . . . . 1 . . . . . . . . . . a . . . . . . . . . . . . . . . . . . . . . . a . . . . . . . . . . . . . . . . . . . . . . . . . . . . . . . . a . . . . 1 . . . . . . . . . . . . . . . . . . . . . 1 . . . . . . 1 1 . . . . . . . . . . . . . 1 a 
+1 1 . . . . a . . . . . . . . . . . . . a . . . . . . . . . . . . . . . . . . . . . 1 . . . . . . . . . . a . . . . . . . . . . . . . . . . . . . . . . a . . . . . . . . . . . . . . . . . . . . . . . . . . . . . . . . a . . . . 1 . . . . . . . . . . . . . . . . . . . . . 1 . . . . . . 1 1 . . . . . . . . . . . . . 1 a 
+1 1 . . . . a . . . . . . . . . . . . . a . . . . . . . . . . . . . . . . . . . . . 1 . . . . . . . . . . a . . . . . . . . . . . . . . . . . . . . . . a a a a a a a a a a a a a a a a a a a a a a a a a a a a a a a a a a a a a a a a a a a a a a a a a a a a a a a a a a a a a a a a a a a a a a a a a a a a a a a a a a a a 
+1 1 . . . . a . . . . . . . . . . . . . a . . . . . . . . . . . . . . . . . . . . . 1 . . . . . . . . . . a . . . . . . . . . . . . . . . . . . . . . . . . . . . . . . . . . . . . . . . . . . . . . . . . . . . . . . . a . . . . 1 . . . . . . . . . . . . . . . . . . . . . 1 . . . . . . 1 1 . . . . . . . . . . . . . 1 1 
+1 1 . . . . a . . . . . . . . . . . . . a . . . . . . . . . . . . . . . . . . . . . 1 . . . . . . . . . . a . . . . . . . . . . . . . . . . . . . . . . . . . . . . . . . . . . . . . . . . . . . . . . . . . . . . . . . a . . . . 1 . . . . . . . . . . . . . . . . . . . . . 1 . . . . . . 1 1 . . . . . . . . . . . . . 1 1 
+1 1 . . . . a . . . . . . . . . . . . . a . . . . . . . . . . . . . . . . . . . . . 1 . . . . . . . . . . a . . . . . . . . . . . . . . . . . . . . . . . . . . . . . . . . . . . . . . . . . . . . . . . . . . . . . . . a . . . . 1 . . . . . . . . . . . . . . . . . . . . . 1 . . . . . . 1 1 . . . . . . . . . . . . . 1 1 
+1 1 . . . . a . . . . . . . . . . . . . a . . . . . . . . . . . . . . . . . . . . . 1 . . . . . . . . . . a . . . . . . . . . . . . . . . . . . . . . . . . . . . . . . . . . . . . . . . . . . . . . . . . . . . . . . . a . . . . 1 . . . . . . . . . . . . . . . . . . . . . 1 . . . . . . 1 1 . . . . . . . . . . . . . 1 1 
+1 1 . . . . a . . . . . . . . . . . . . a . . . . . . . . . . . . . . . . . . . . . 1 . . . . . . . . . . a . . . . . . . . . . . . . . . . . . . . . . . . . . . . . . . . . . . . . . . . . . . . . . . . . . . . . . . a . . . . 1 . . . . . . . . . . . . . . . . . . . . . 1 . . . . . . 1 1 . . . . . . . . . . . . . 1 1 
+1 1 . . . . a . . . . . . . . . . . . . a . . . . . . . . . . . . . . . . . . . . . 1 . . . . . . . . . . a . . . . . . . . . . . . . . . . . . . . . . . . . . . . . . . . . . . . . . . . . . . . . . . . . . . . . . . a . . . . 1 . . . . . . . . . . . . . . . . . . . . . 1 . . . . . . 1 1 . . . . . . . . . . . . . 1 1 
+1 1 . . . . a . . . . . . . . . . . . . a . . . . . . . . . . . . . . . . . . . . . 1 . . . . . . . . . . a . . . . . . . . . . . . . . . . . . . . . . . . . . . . . . . . . . . . . . . . . . . . . . . . . . . . . . . a . . . . 1 . . . . . . . . . . . . . . . . . . . . . 1 . . . . . . 1 1 . . . . . . . . . . . . . 1 1 
+1 1 . . . . a . . . . . . . . . . . . . a . . . . . . . . . . . . . . . . . . . . . 1 . . . . . . . . . . a . . . . . . . . . . . . . . . . . . . . . . . . . . . . . . . . . . . . . . . . . . . . . . . . . . . . . . . a . . . . 1 . . . . . . . . . . . . . . . . . . . . . 1 . . . . . . 1 1 . . . . . . . . . . . . . 1 1 
+1 1 . . . . a . . . . . . . . . . . . . a . . . . . . . . . . . . . . . . . . . . . 1 . . . . . . . . . . a . . . . . . . . . . . . . . . . . . . . . . . . . . . . . . . . . . . . . . . . . . . . . . . . . . . . . . . a . . . . 1 . . . . . . . . . . . . . . . . . . . . . 1 . . . . . . 1 1 . . . . . . . . . . . . . 1 1 
+1 1 . . . . a . . . . . . . . . . . . . a . . . . . . . . . . . . . . . . . . . . . 1 . . . . . . . . . . a . . . . . . . . . . . . . . . . . . . . . . . . . . . . . . . . . . . . . . . . . . . . . . . . . . . . . . . a . . . . 1 . . . . . . . . . . . . . . . . . . . . . 1 . . . . . . 1 1 . . . . . . . . . . . . . 1 1 
+1 1 . . . . a . . . . . . . . . . . . . a . . . . . . . . . . . . . . . . . . . . . 1 . . . . . . . . . . a . . . . . . . . . . . . . . . . . . . . . . . . . . . . . . . . . . . . . . . . . . . . . . . . . . . . . . . a . . . . 1 . . . . . . . . . . . . . . . . . . . . . 1 . . . . . . 1 1 . . . . . . . . . . . . . 1 1 
+1 1 . . . . a a a a a a a a a a a a a a a a a a a a a a a a a a a a a a a a a a a a a a a a a a a a a a a a a a a a a a a a a a a a a a a a a a a a a a a a a a a a a a a a a a a a a a a a a a a a a a a a a a a a a a a a 1 1 1 1 1 1 1 1 1 1 1 1 1 1 1 1 1 1 1 1 1 1 1 1 1 1 1 . . . . . . 1 1 . . . . . . . . . . . . . 1 1 
+1 1 . . . . . . . . . . . . . . . . . . a . . . . . . . . . . . . . . . . . . . . . . . . . . . . . . . . a . . . . . . . . . . . . . . . . . . . . . . . . . . . . . . . . . . . . . . . . . . . . . . . . . . . . . . . . . . . . 1 . . . . . . . . . . . . . . . . . . . . . . . . . . . . 1 1 . . . . . . . . . . . . . 1 1 
+1 1 . . . . . . . . . . . . . . . . . . a . . . . . . . . . . . . . . . . . . . . . . . . . . . . . . . . a . . . . . . . . . . . . . . . . . . . . . . . . . . . . . . . . . . . . . . . . . . . . . . . . . . . . . . . . . . . . 1 . . . . . . . . . . . . . . . . . . . . . . . . . . . . 1 1 . . . . . . . . . . . . . 1 1 
+1 1 . . . . . . . . . . . . . . . . . . a . . . . . . . . . . . . . . . . . . . . . . . . . . . . . . . . a . . . . . . . . . . . . . . . . . . . . . . . . . . . . . . . . . . . . . . . . . . . . . . . . . . . . . . . . . . . . 1 . . . . . . . . . . . . . . . . . . . . . . . . . . . . 1 1 . . . . . . . . . . . . . 1 1 
+1 1 . . . . . . . . . . . . . . . . . . a . . . . . . . . . . . . . . . . . . . . . . . . . . . . . . . . a . . . . . . . . . . . . . . . . . . . . . . . . . . . . . . . . . . . . . . . . . . . . . . . . . . . . . . . . . . . . 1 . . . . . . . . . . . . . . . . . . . . . . . . . . . . 1 1 . . . . . . . . . . . . . 1 1 
+1 1 1 1 1 1 1 1 1 1 1 1 1 1 1 1 1 1 1 1 a 1 1 1 1 1 1 1 1 1 1 1 1 1 1 1 1 1 1 1 1 1 1 1 1 1 1 1 1 1 1 1 1 a 1 1 1 1 1 1 1 1 1 1 1 1 1 1 1 1 1 1 1 1 1 1 1 1 1 1 1 1 1 1 1 1 1 1 1 1 1 1 1 1 1 1 1 1 1 1 1 1 1 1 1 1 1 1 1 1 1 1 1 1 1 . . . . . . . . . . . . . . . . . . . . . . . . . . . . 1 1 . . . . . . . . . . . . . 1 1 
+1 1 1 1 1 1 1 1 1 1 1 1 1 1 1 1 1 1 1 1 a a a a a a a a a a a a a a a a a a a a a a a a a a a a a a a a a a 1 1 1 1 1 1 1 1 1 1 1 1 1 1 1 1 1 1 1 1 1 1 1 1 1 1 1 1 1 1 1 1 1 1 1 1 1 1 1 1 1 1 1 1 1 1 1 1 1 1 1 1 1 1 1 1 1 1 1 1 1 1 1 1 1 1 1 1 1 1 1 1 1 1 1 1 1 1 1 1 1 1 1 1 1 1 1 1 1 1 1 1 1 1 1 1 1 1 1 1 1 1 1 1 1 1 
+. . . . . . . . . . . . . . . . . . . . . . . . . . . . . . . . . . . . . . . . . . . . . . . . . . . . . . . . . . . . . . . . . . . . . . . . . . . . . . . . . . . . . . . . . . . . . . . . . . . . . . . . . . . . . . . . . . . . . . . . . . . . . . . . . . . . . . . . . . . . . . . . 1 1 1 1 1 1 1 1 1 1 1 1 1 1 1 . 
+`)
 }
 game.onUpdateInterval(500, function () {
     scene.cameraShake(3, 500)
